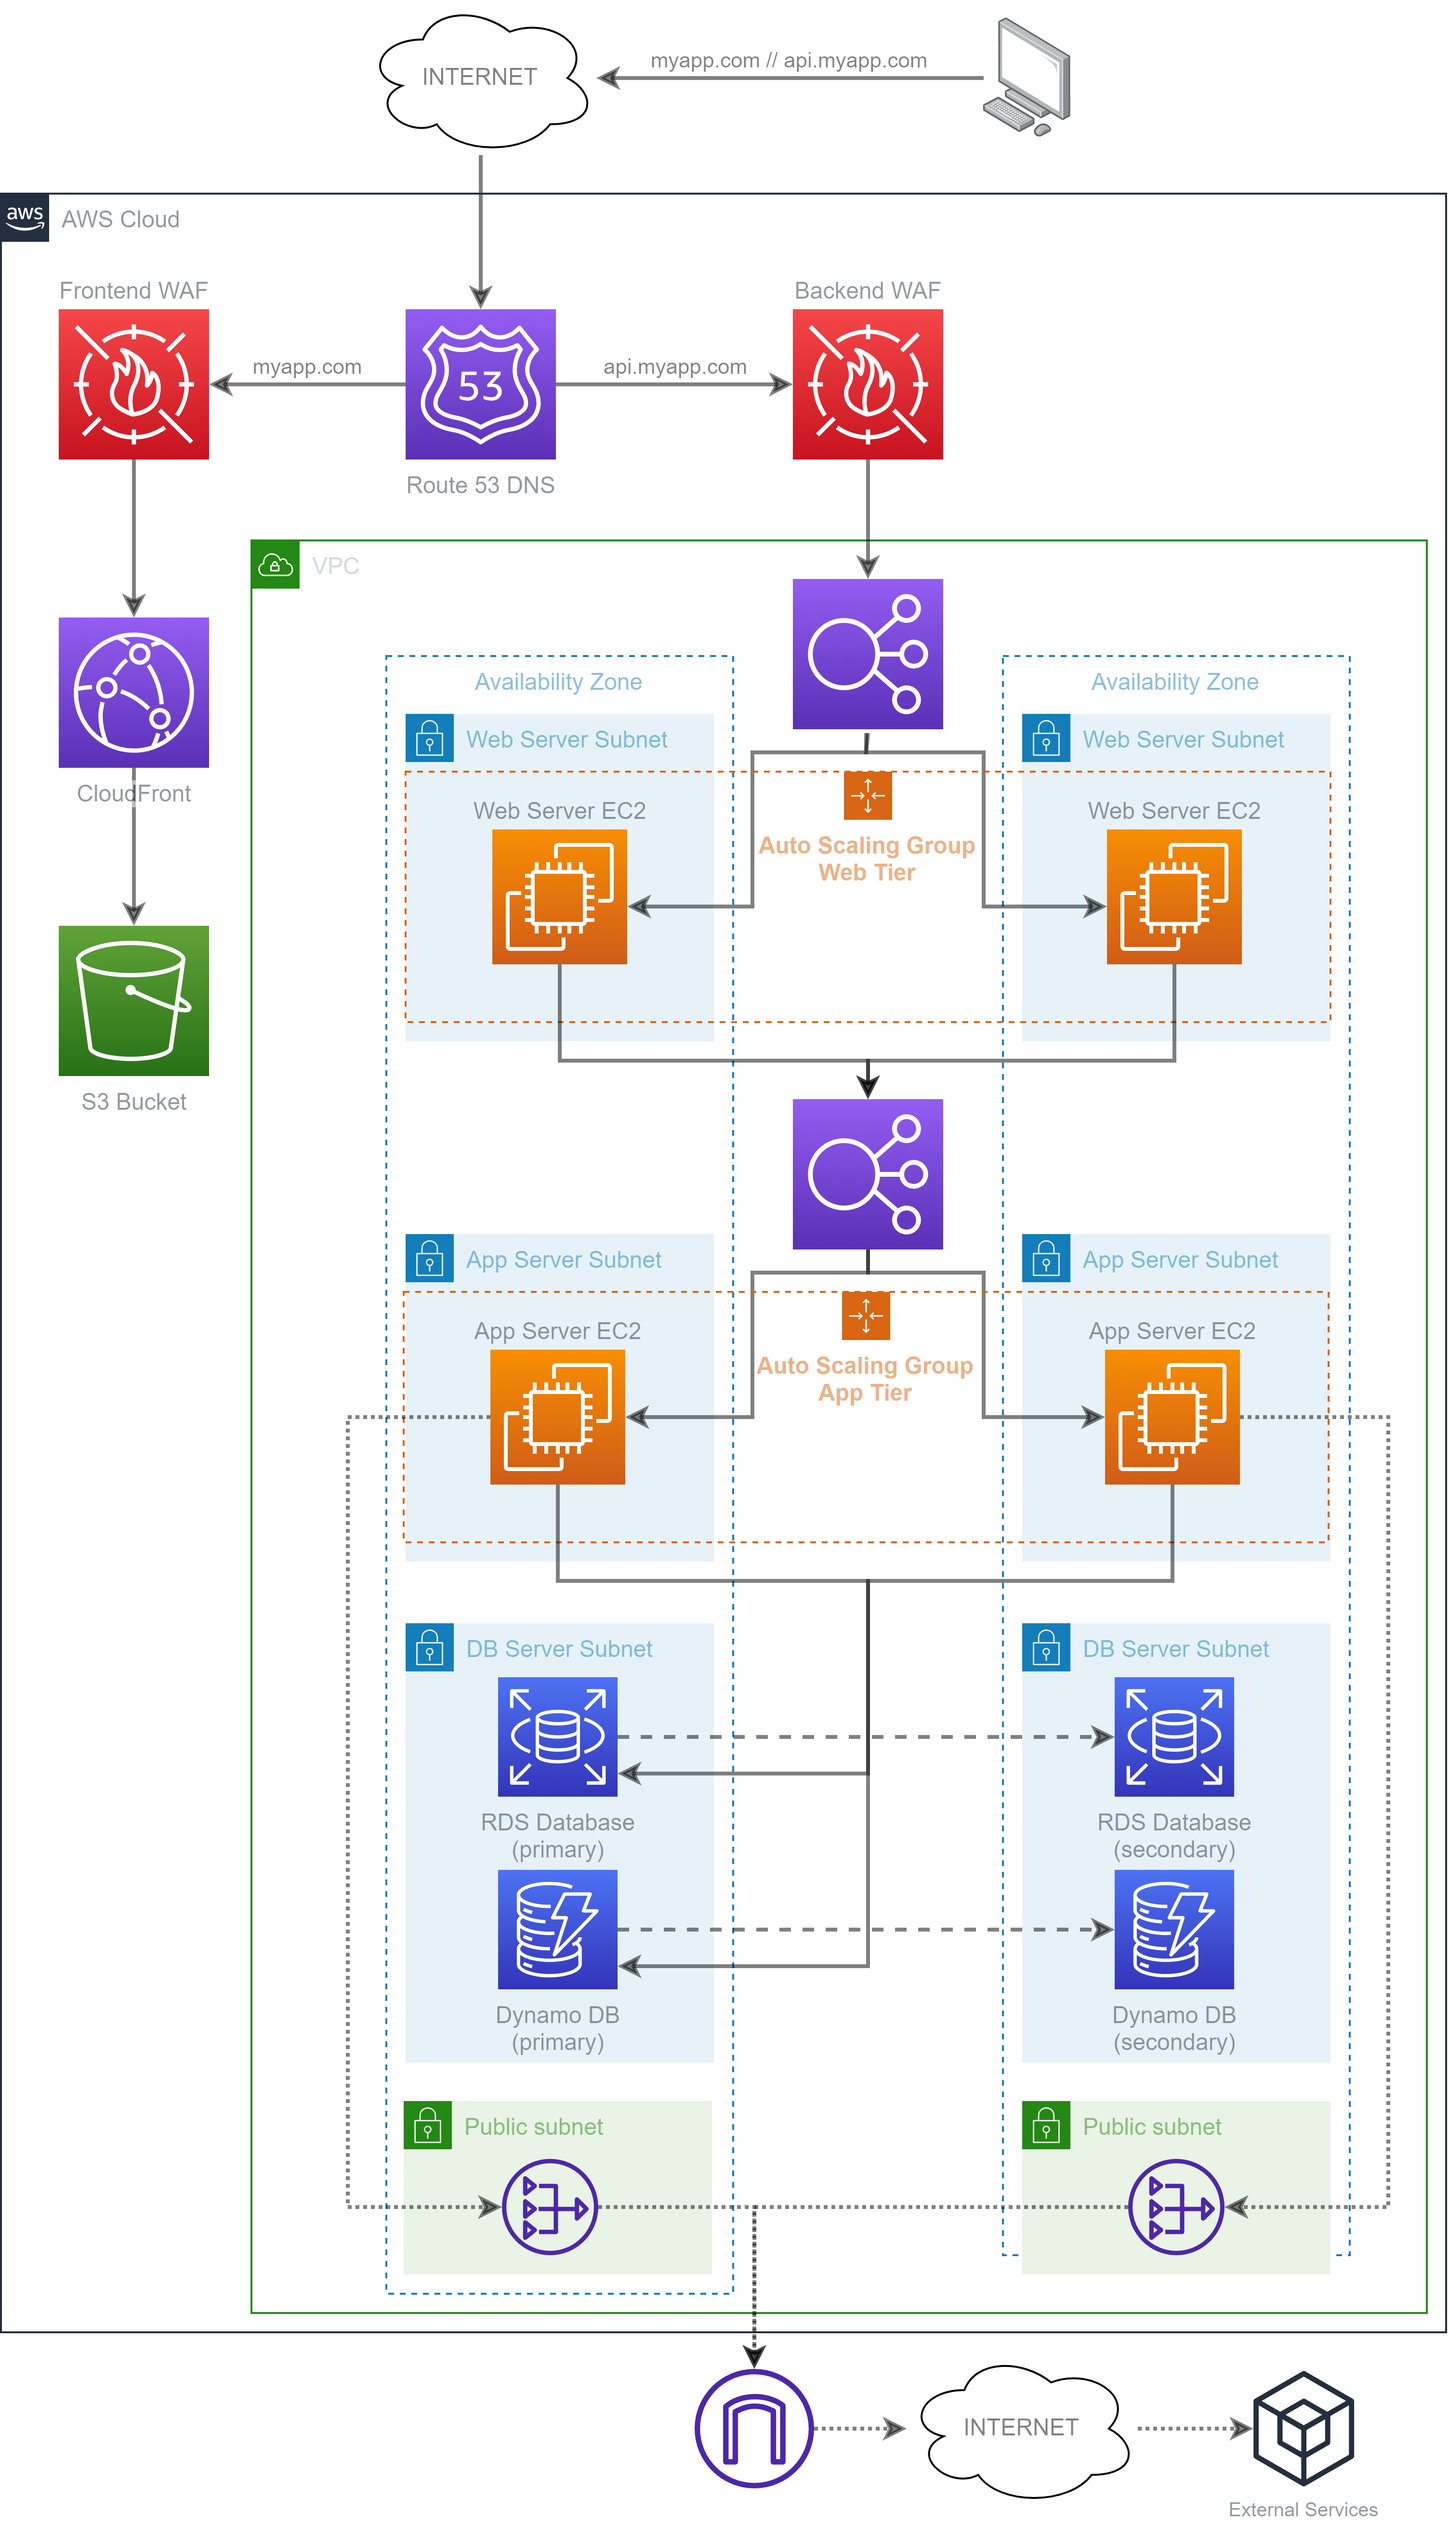
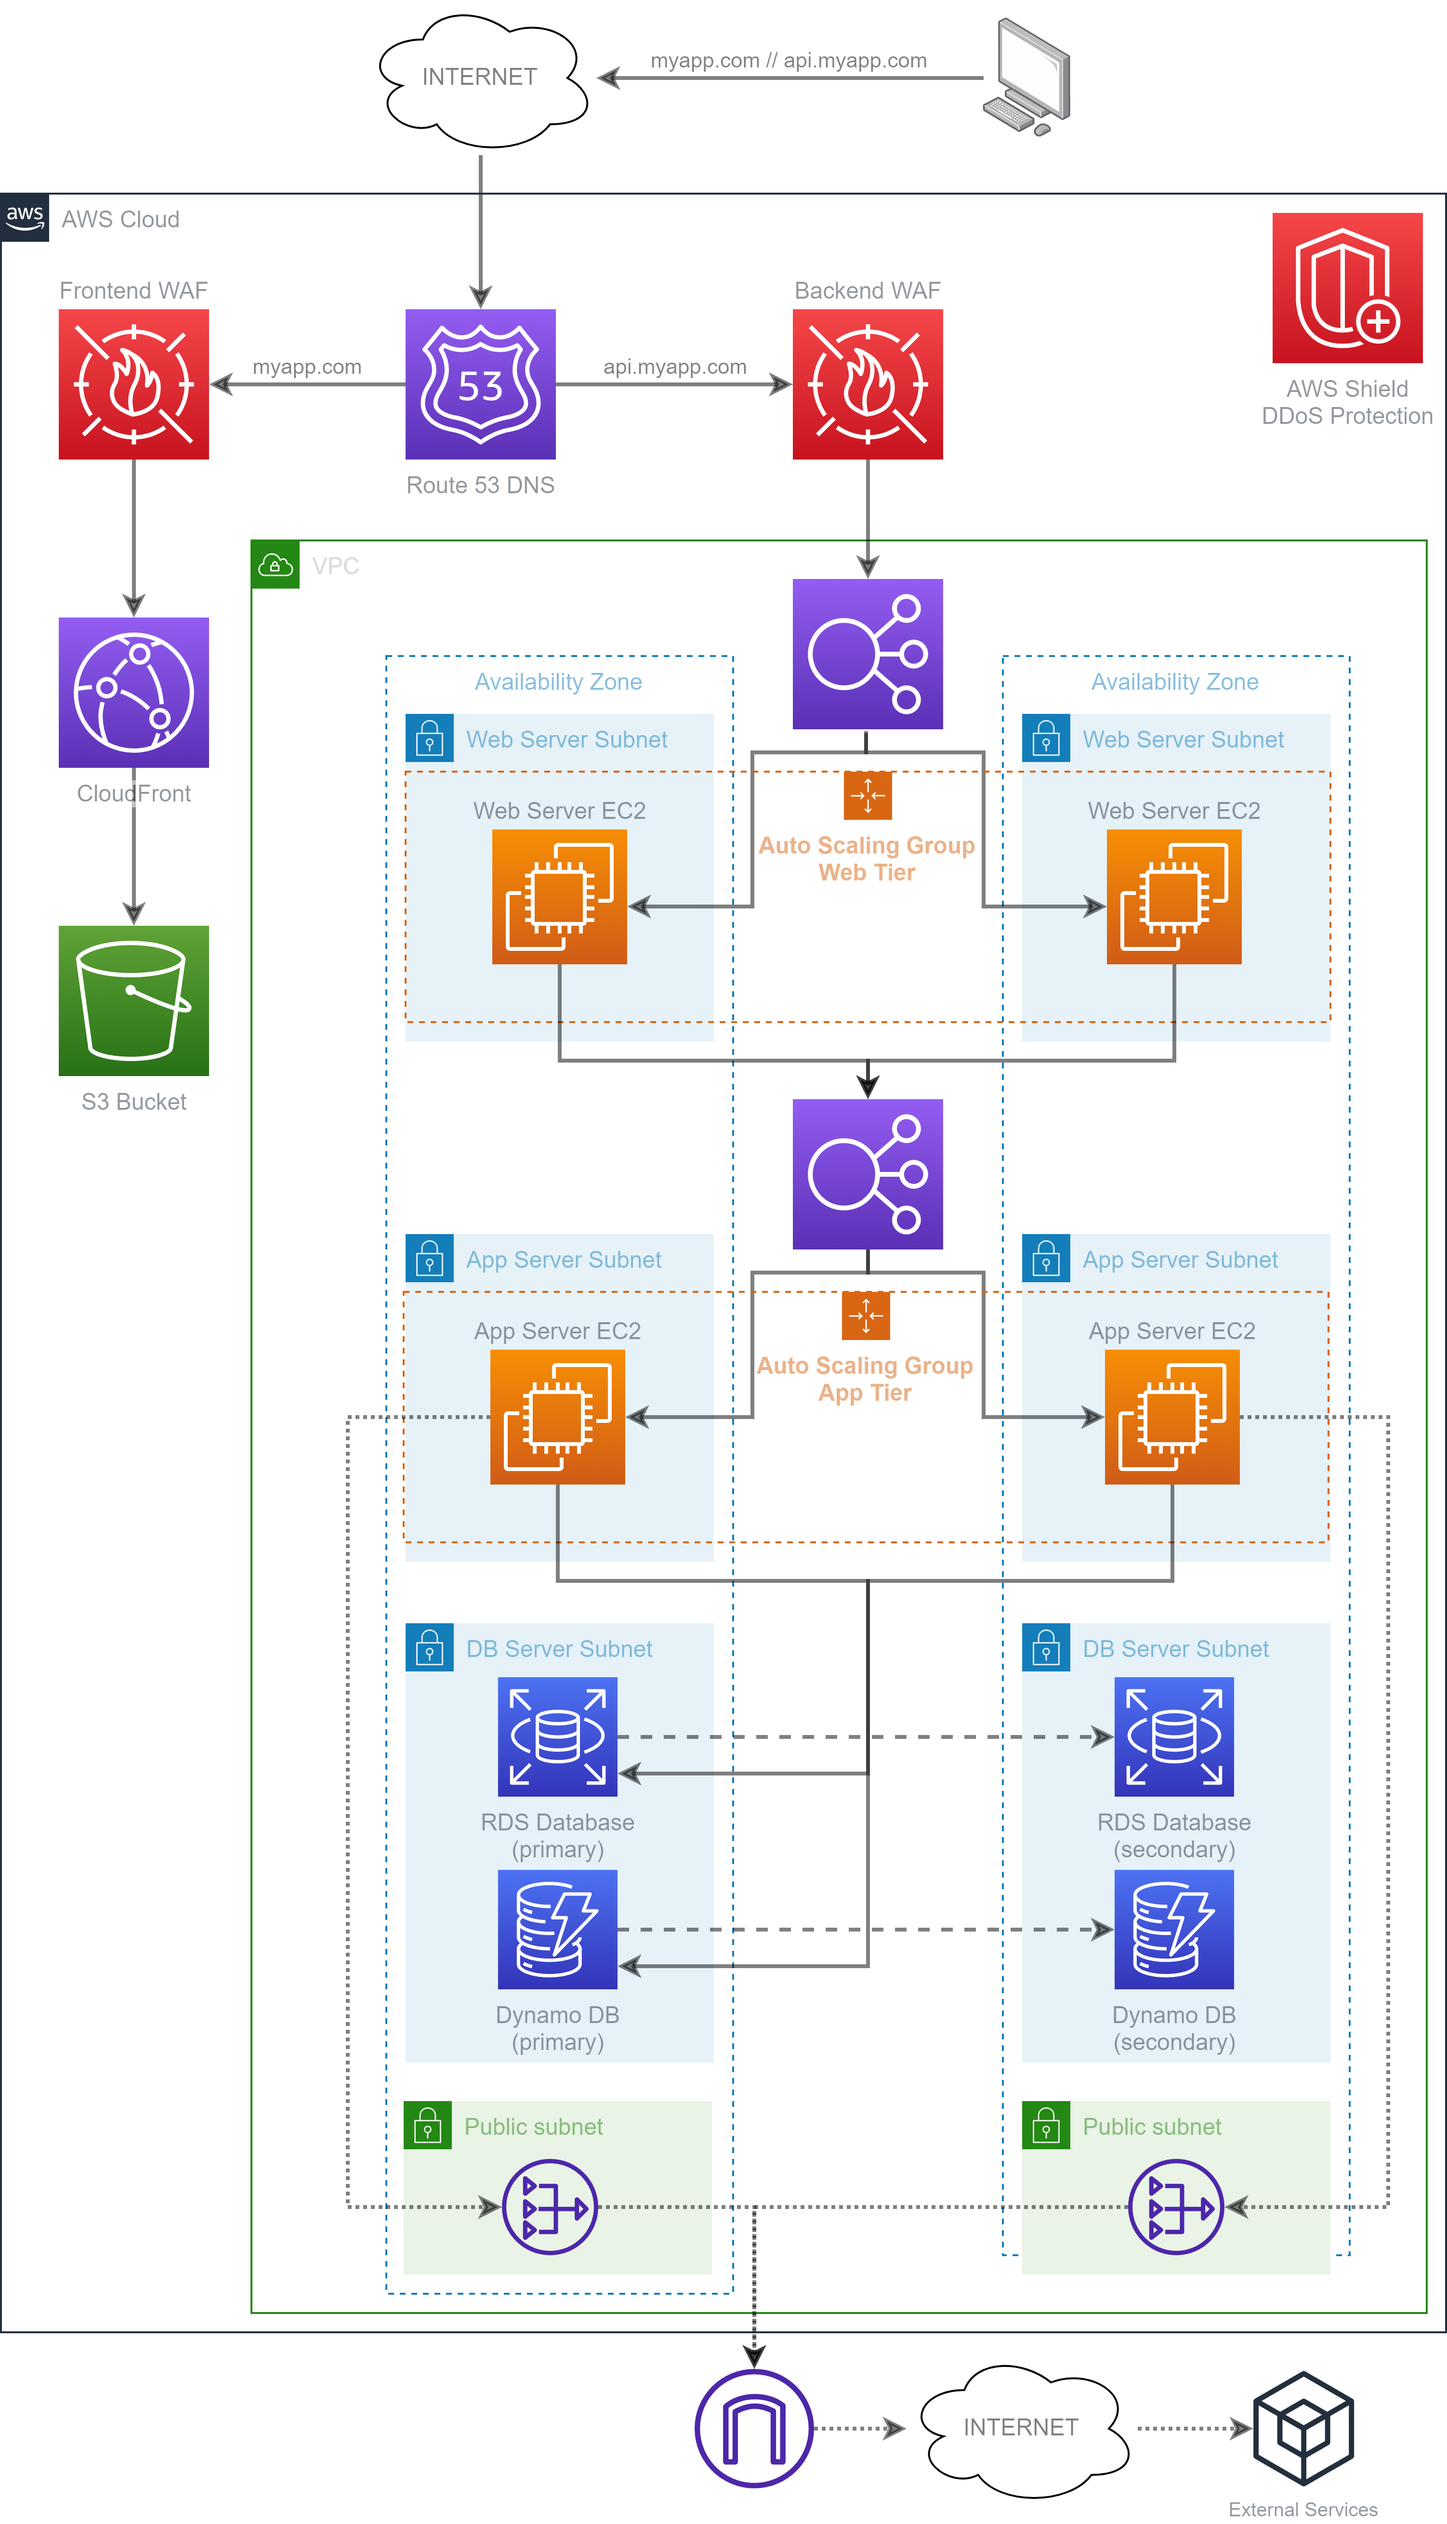
add ddos protection

diff --git a/challenge-1/README.md b/challenge-1/README.md
@@ -26,6 +26,8 @@ Las flotas de servidores (web y de aplicación) y las bases de datos se organiza
 
 Adicionalmente, y aunque no se encuentra aclarado en el gráfico, los nodos correspondientes del servicio de **Elastic Load Balancing** se encuentran dentro de una *subnet* pública, de forma tal que se pueden acceder desde el exterior. 
 
+También, se habilita la protección DDoS a través de `AWS Shield`, para proteger la implementación de forma automática contra ataques de este tipo. 
+
 ## Referencias
 
 * https://docs.aws.amazon.com/pdfs/whitepapers/latest/web-application-hosting-best-practices/web-application-hosting-best-practices.pdf#welcome
